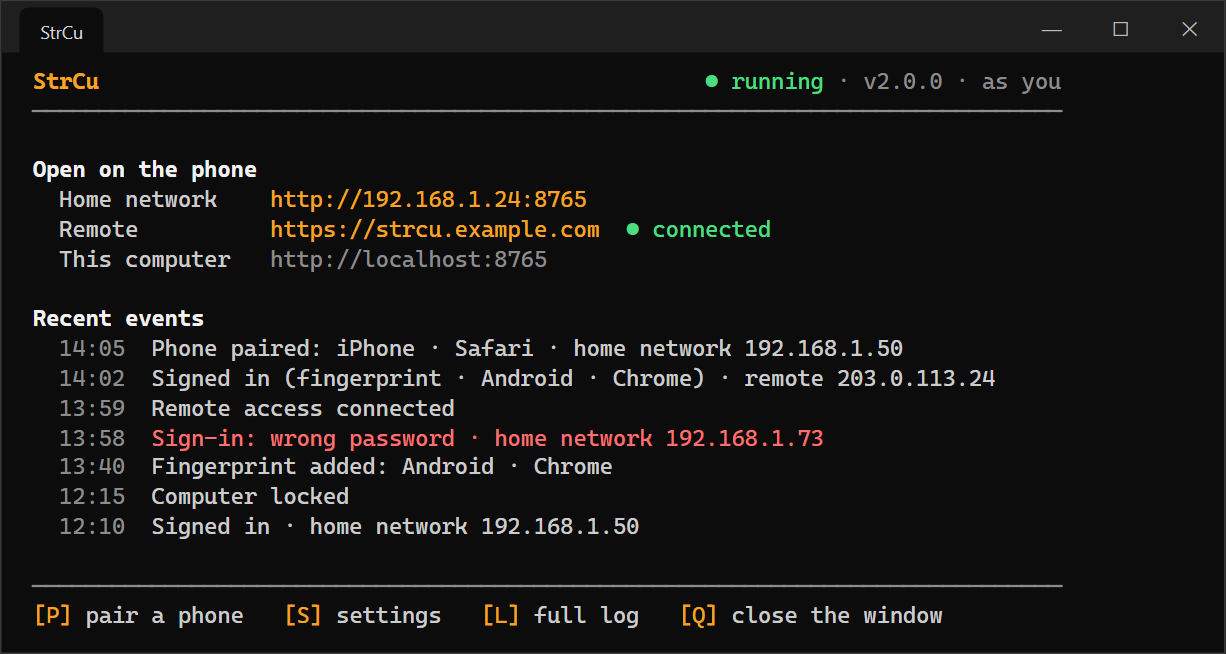
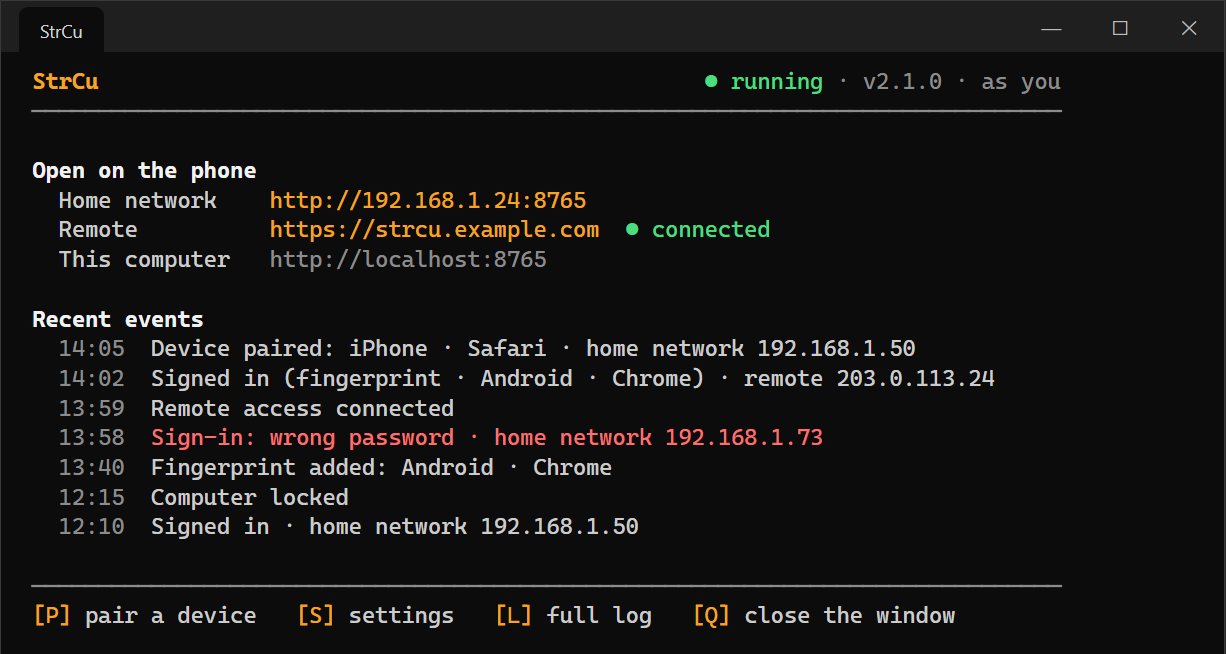
README: the pictures say what 2.1.0 says
The main screen, pairing and setup pictures made again with `strcu dev preview`
(as "you", v2.1.0): "pair a device", "Device paired", "Asked when you sign in to the
panel". In the Files picture the button now reads "Send to computer", drawn with the
panel's own CSS and font at the picture's scale.

Claude-Session: https://claude.ai/code/session_01SAX4iDUp47rtpVxNo38mXA

diff --git a/README.md b/README.md
@@ -77,7 +77,7 @@ StrCu opens in a terminal window. The first start is a short setup:
 StrCu itself starts with Windows, before anyone signs in, and keeps running when you sign out. Nothing is
 asked about that, because the service is what StrCu is.
 
-<img src="docs/terminal.png" alt="StrCu's main screen: the addresses to open on the phone (home network, remote, this computer) and recent events such as a phone paired, sign-ins and a wrong password" width="640">
+<img src="docs/terminal.png" alt="StrCu's main screen: the addresses to open on the phone (home network, remote, this computer) and recent events such as a device paired, sign-ins and a wrong password" width="640">
 
 After that the main screen shows where the phone can open the panel and the important events: sign-ins and
 failed attempts with where they came from, devices paired, fingerprints added, the computer locked, files sent or
@@ -94,7 +94,7 @@ its lid closed, set Windows to do nothing when the lid is closed.
 
 ## Connect a phone
 
-<img src="docs/pair.png" alt="Pairing a phone: a QR code and the six-digit code 482 913 next to the home network address" width="560">
+<img src="docs/pair.png" alt="Pairing a device: a QR code and the six-digit code 482 913 next to the home network address" width="560">
 
 Press **P** on the main screen and scan the QR code with the phone's camera, or open the address shown and type
 the six-digit code under "Pair with a code from the computer". The paired phone gets in without the password
@@ -169,7 +169,7 @@ The page loads nothing from outside; its fonts (IBM Plex) are built in.
 
 On the Files tab:
 
-<img src="docs/files.png" alt="The Files tab on a phone: buttons to get the File Explorer selection and to send files from the phone, the folder chips, the Downloads folder with its subfolders and newest files, one of them selected, and the Download button with its name and size" width="320">
+<img src="docs/files.png" alt="The Files tab on a phone: buttons to get the File Explorer selection and to send files to the computer, the folder chips, the Downloads folder with its subfolders and newest files, one of them selected, and the Download button with its name and size" width="320">
 
 - **From the computer:** the Downloads, Desktop, Documents, Pictures and Videos folders (wherever Windows keeps them,
   OneDrive included), folders first and then the newest files. A tap selects a file and **Download** under the
